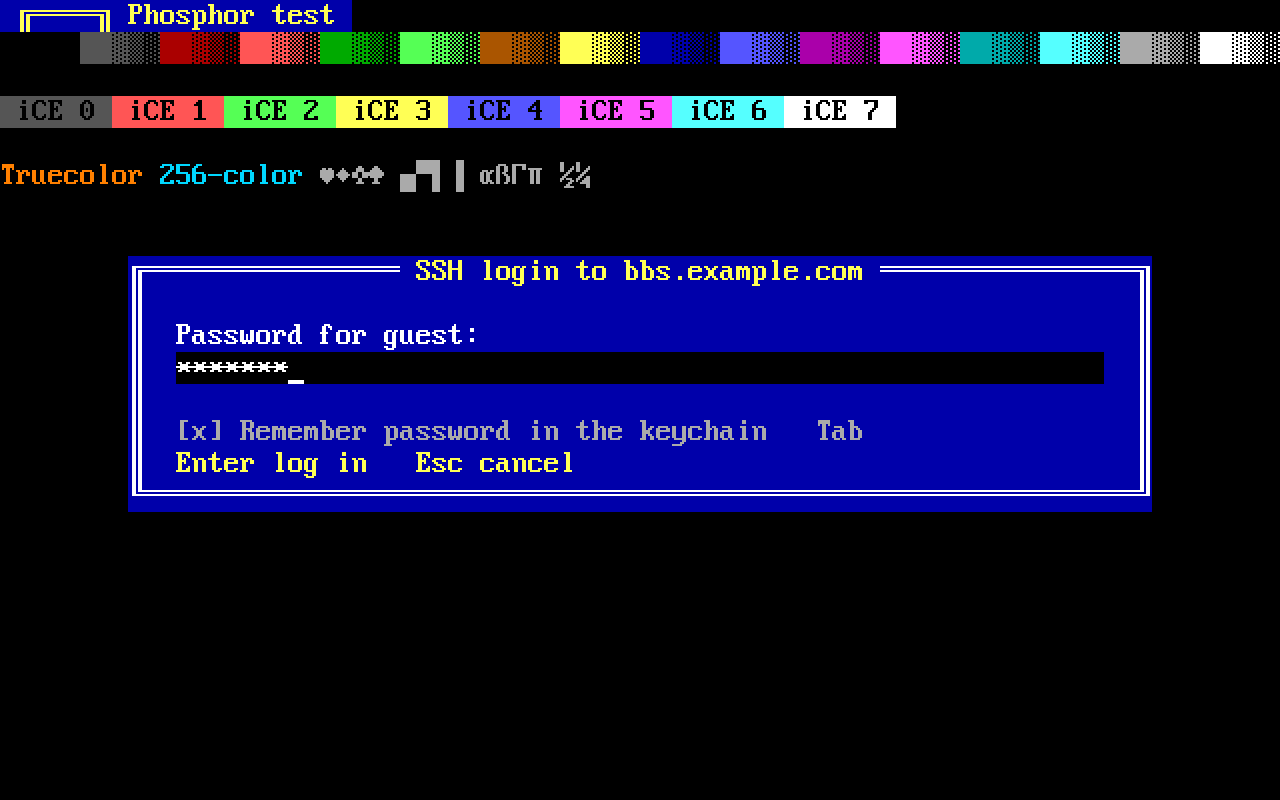
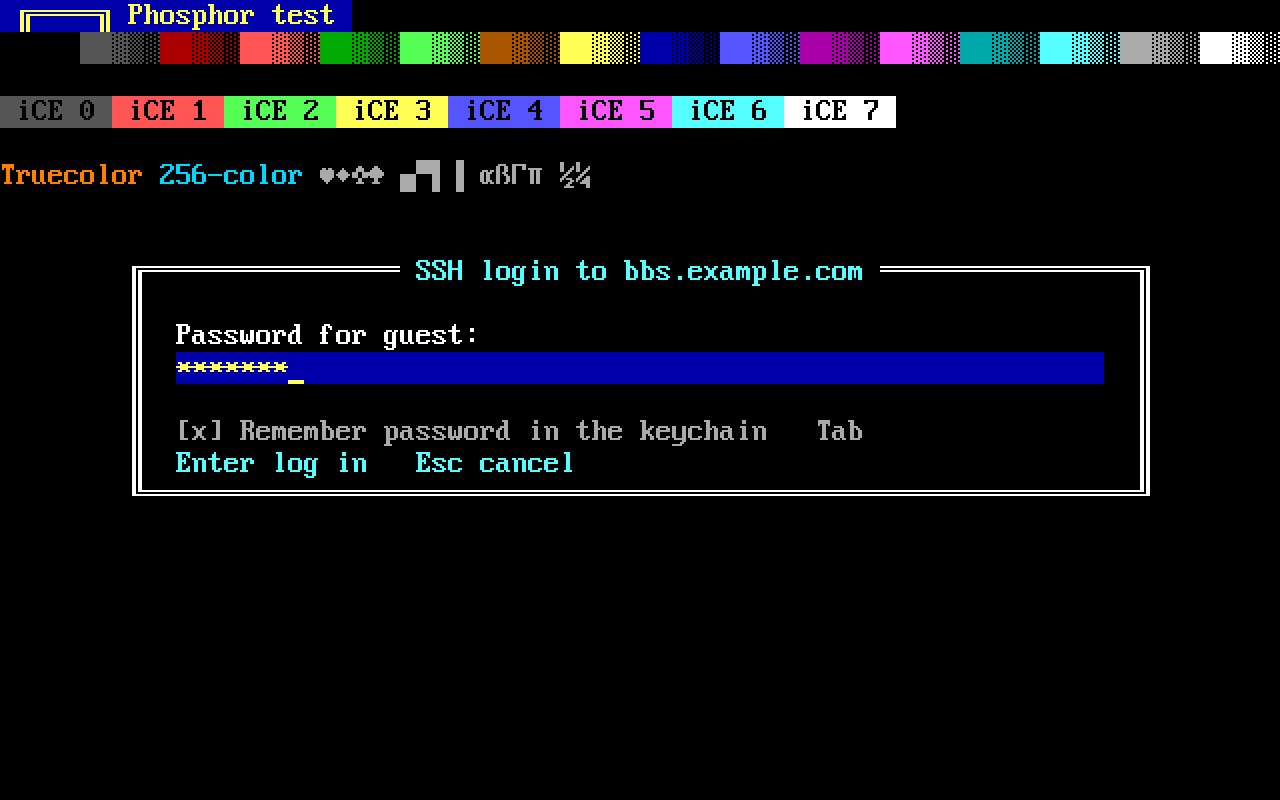
No splash when calling or opening a file at start; Midnight is the default scheme
The splash screen is skipped when Phosphor is started to call an
address, follow a telnet:// link or show a file, and a link that
arrives just after the window opens (macOS) dismisses it. Midnight is
now the first color scheme and the default; the website's text-mode
screenshots are in it.

Claude-Session: https://claude.ai/code/session_01F8KB6yGMTk6dZ8eUP3RvhB

Changed region(s): [[0.0938, 0.3125, 0.9062, 0.6562]]

diff --git a/crates/phosphor/src/ui/theme.rs b/crates/phosphor/src/ui/theme.rs
@@ -171,30 +171,6 @@ const fn a(fg: u8, bg: u8) -> Attr {
 /// The built-in schemes, by name; the first is the default.
 pub const SCHEMES: [(&str, Theme); 9] = [
     (
-        "Classic blue",
-        Theme {
-            title_bar: a(WHITE, BLUE),
-            border: a(LIGHT_CYAN, BLUE),
-            headings: a(YELLOW, BLUE),
-            entries: a(WHITE, BLUE),
-            selected: a(BLACK, CYAN),
-            info: a(LIGHT_CYAN, BLACK),
-            help: a(GRAY, BLACK),
-            help_key: a(YELLOW, BLACK),
-            status: a(WHITE, BLUE),
-            status_alt: a(BLACK, CYAN),
-            window: a(WHITE, BLUE),
-            window_title: a(YELLOW, BLUE),
-            window_text: a(GRAY, BLUE),
-            field_name: a(GRAY, BLUE),
-            field_value: a(LIGHT_CYAN, BLUE),
-            input: a(WHITE, BLACK),
-            keys: a(YELLOW, BLUE),
-            note: a(DARK_GRAY, BLUE),
-            error: a(LIGHT_RED, BLUE),
-        },
-    ),
-    (
         "Midnight",
         Theme {
             title_bar: a(BLACK, CYAN),
@@ -216,6 +192,30 @@ pub const SCHEMES: [(&str, Theme); 9] = [
             keys: a(LIGHT_CYAN, BLACK),
             note: a(DARK_GRAY, BLACK),
             error: a(LIGHT_RED, BLACK),
+        },
+    ),
+    (
+        "Classic blue",
+        Theme {
+            title_bar: a(WHITE, BLUE),
+            border: a(LIGHT_CYAN, BLUE),
+            headings: a(YELLOW, BLUE),
+            entries: a(WHITE, BLUE),
+            selected: a(BLACK, CYAN),
+            info: a(LIGHT_CYAN, BLACK),
+            help: a(GRAY, BLACK),
+            help_key: a(YELLOW, BLACK),
+            status: a(WHITE, BLUE),
+            status_alt: a(BLACK, CYAN),
+            window: a(WHITE, BLUE),
+            window_title: a(YELLOW, BLUE),
+            window_text: a(GRAY, BLUE),
+            field_name: a(GRAY, BLUE),
+            field_value: a(LIGHT_CYAN, BLUE),
+            input: a(WHITE, BLACK),
+            keys: a(YELLOW, BLUE),
+            note: a(DARK_GRAY, BLUE),
+            error: a(LIGHT_RED, BLUE),
         },
     ),
     (
@@ -496,7 +496,7 @@ mod tests {
         t.set(4, Attr::new(14, 4));
         assert_eq!(t.selected, Attr::new(14, 4));
         assert_eq!(t.scheme_name(), None);
-        assert_eq!(Theme::default().scheme_name(), Some("Classic blue"));
+        assert_eq!(Theme::default().scheme_name(), Some("Midnight"));
         // Every scheme is distinct, so its name can be shown.
         for (i, (_, a)) in SCHEMES.iter().enumerate() {
             for (_, b) in &SCHEMES[i + 1..] {

diff --git a/crates/phosphor/src/app.rs b/crates/phosphor/src/app.rs
@@ -1717,7 +1717,8 @@ impl ApplicationHandler<UserEvent> for App {
             return event_loop.exit();
         }
         self.load_bezel();
-        if self.settings.splash {
+        // Not when started to call a BBS or show a file: get on with it.
+        if self.settings.splash && self.startup.is_none() && self.view_at_start.is_none() {
             self.splash_until = Some(Instant::now() + ui::splash::TIME);
         }
         if let Some(path) = self.view_at_start.take() {
@@ -1743,6 +1744,9 @@ impl ApplicationHandler<UserEvent> for App {
                 // Before the window exists: the link that launched the app.
                 Some(e) if self.gfx.is_none() => self.startup = Some(e),
                 Some(e) => {
+                    // A link that launched the app can come just after the
+                    // window: the call matters more than the splash.
+                    self.splash_until = None;
                     if let Some(g) = &self.gfx {
                         g.window.focus_window();
                     }

diff --git a/README.md b/README.md
@@ -230,8 +230,8 @@ glass (off for a flat screen, slight, medium or strong), the aspect ratio,
 scaling (fit keeping the shape; auto, which is whole numbers in a window
 and fit in full screen; always whole numbers; or stretch to fill),
 character cells, ANSI music, redialing, and the colors
-of Phosphor's own screens. Pick one of the color schemes (Classic blue,
-Midnight, Gray windows, Green phosphor, Amber, Monochrome), or, under "Edit
+of Phosphor's own screens. Pick one of the color schemes (Midnight, the
+default; Classic blue, Gray windows, Green phosphor, Amber, Monochrome), or, under "Edit
 colors", give each part of the interface (title bar, selected entry,
 windows, input fields, key hints, ...) its own foreground and background
 from a grid of the 16 x 8 combinations, as in QModem and Telix. Changes
